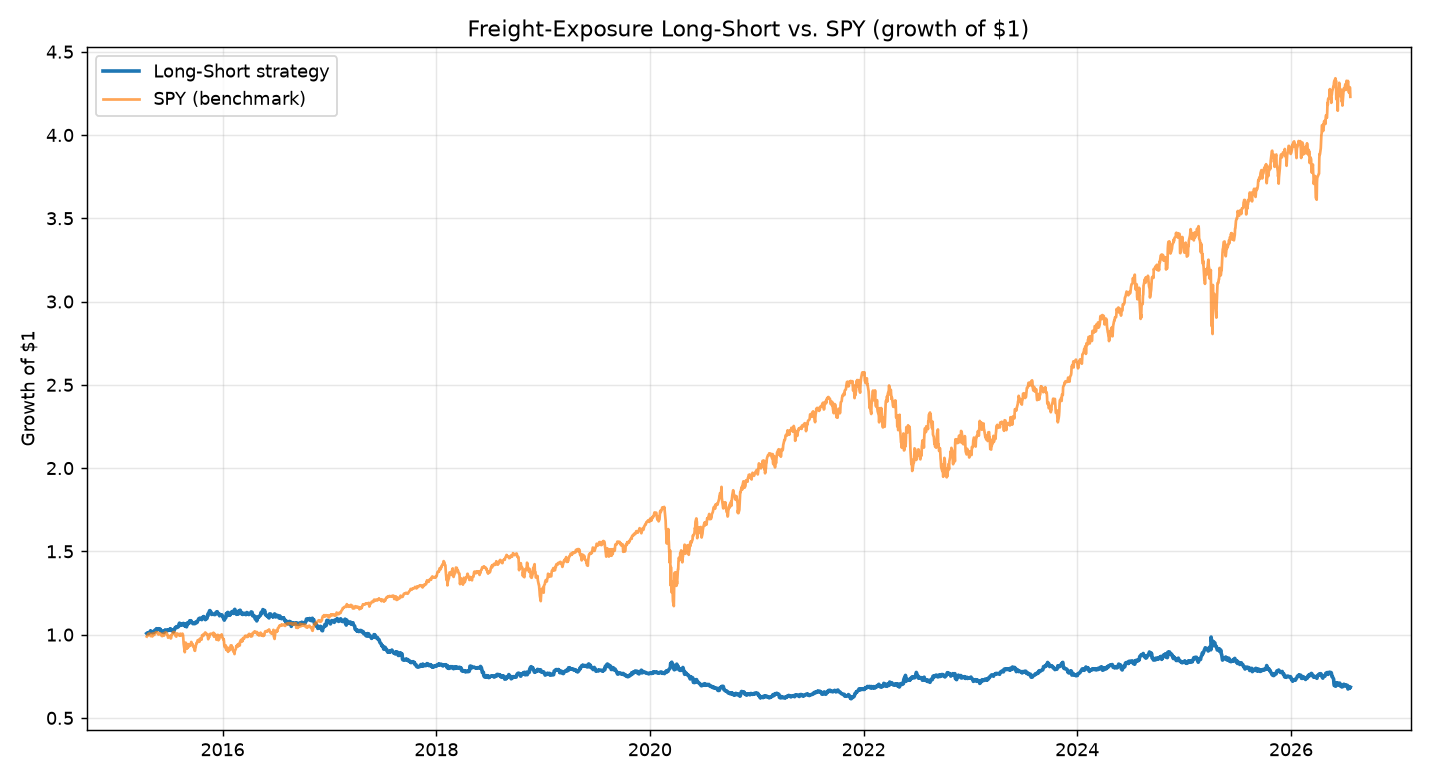
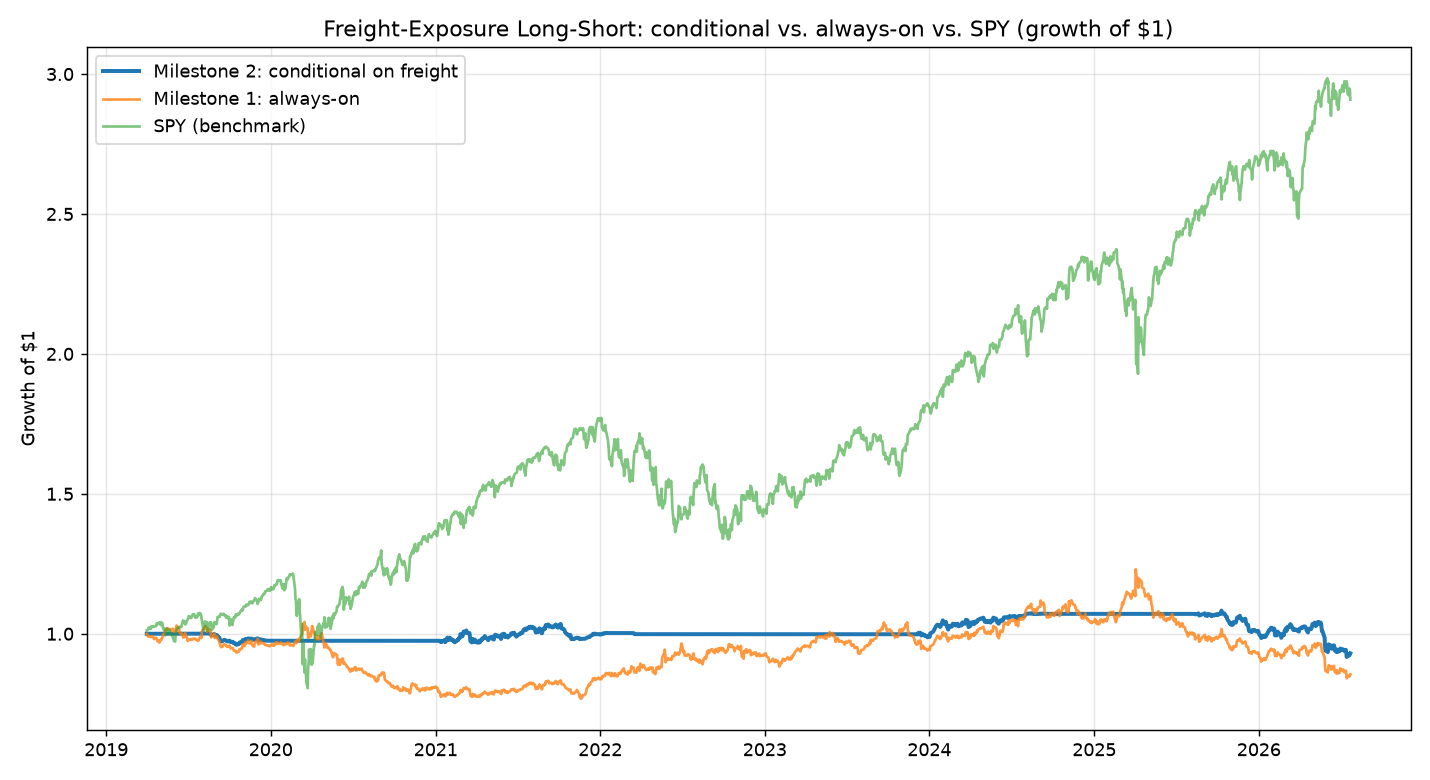
Milestone 2: conditional freight-driven signal
Add src/signal.py: turn the BDRY dry-bulk freight ETF into a daily signal
(rolling z-score vs trailing year, lagged to avoid look-ahead). Scale the
long-short book by that strength so it only leans against importers when
freight is actually elevated, and charge turnover-based transaction costs.

Result over 2019-2026: gating cuts vol ~60% and halves max drawdown vs the
always-on book, though edge is still unproven -- motivating the Milestone 3
validation layer.

diff --git a/main.py b/main.py
@@ -1,48 +1,78 @@
 """
-FIRST MILESTONE runner.
+Runner: builds the strategy end-to-end and compares milestones.
 
     python main.py
 
-What it does:
-  1. Downloads (and caches) prices for the stock universe + SPY.
-  2. Builds a market-neutral long-short book from the import-exposure thesis.
-  3. Backtests it and prints honest performance stats.
-  4. Saves a chart of the strategy vs. SPY to output/strategy_vs_spy.png.
+  Milestone 1  = always-on long-short book (bets against importers every day).
+  Milestone 2  = the SAME book, but only turned on when the freight signal says
+                 shipping costs are actually elevated (conditional + lagged).
 
-This is the skeleton. Everything else (dynamic freight signal, statistical
-validation, Streamlit dashboard) hangs off this.
+Both are compared against SPY over the window where freight data exists, so it's
+apples to apples. Saves a chart to output/strategy_vs_spy.png.
 """
 import os
 import matplotlib
-matplotlib.use("Agg")  # save to file, no GUI needed
+matplotlib.use("Agg")
 import matplotlib.pyplot as plt
 
 from src.ingest import download_prices
-from src.backtest import run_backtest, performance_stats
+from src.signal import freight_score
+from src.backtest import (
+    run_backtest, run_conditional_backtest, performance_stats,
+)
 
 OUTPUT_DIR = os.path.join(os.path.dirname(__file__), "output")
 
 
+def print_stats(label, returns):
+    stats = performance_stats(returns)
+    print(f"\n{label}")
+    for k, v in stats.items():
+        print(f"  {k:15s}: {v}")
+
+
 def main():
     prices = download_prices()
-    results, weights = run_backtest(prices)
 
-    print("\n--- LONG-SHORT WEIGHTS (positive = long, negative = short) ---")
-    print(weights.sort_values().round(3).to_string())
+    # --- freight signal ---
+    strength = freight_score(prices)
 
-    print("\n--- PERFORMANCE (net of a simple cost assumption) ---")
-    for name in ["strategy", "benchmark"]:
-        stats = performance_stats(results[name])
-        print(f"\n{name.upper()}")
-        for k, v in stats.items():
-            print(f"  {k:15s}: {v}")
+    # only compare over the window where the freight signal is actually defined
+    # (BDRY history + rolling lookback + lag), so nothing gets a free head start
+    valid = strength.dropna()
+    start = valid.index.min()
+    prices_w = prices.loc[start:]
+    print(f"Freight signal available from {start.date()} -> comparing from there.")
 
-    # cumulative return chart
-    curve = (1 + results).cumprod()
+    # --- Milestone 1: always-on book ---
+    m1, _ = run_backtest(prices_w)
+
+    # --- Milestone 2: conditional book ---
+    m2, weights, strength_w = run_conditional_backtest(prices_w, strength)
+
+    # align all three series to a common window
+    idx = m2.index.intersection(m1.index)
+    m1, m2 = m1.loc[idx], m2.loc[idx]
+
+    print("\n================ PERFORMANCE (net of costs) ================")
+    print_stats("SPY (benchmark)", m2["benchmark"])
+    print_stats("Milestone 1  (always-on)", m1["strategy"])
+    print_stats("Milestone 2  (conditional on freight)", m2["strategy"])
+
+    days_on = (strength_w.loc[idx] > 0.05).mean()
+    print(f"\nMilestone 2 was meaningfully 'on' {days_on:.0%} of days "
+          f"(flat the rest -> that's the point).")
+
+    # --- chart ---
+    curve_m1 = (1 + m1["strategy"]).cumprod()
+    curve_m2 = (1 + m2["strategy"]).cumprod()
+    curve_spy = (1 + m2["benchmark"]).cumprod()
+
     plt.figure(figsize=(11, 6))
-    plt.plot(curve.index, curve["strategy"], label="Long-Short strategy", linewidth=2)
-    plt.plot(curve.index, curve["benchmark"], label="SPY (benchmark)", linewidth=1.5, alpha=0.7)
-    plt.title("Freight-Exposure Long-Short vs. SPY (growth of $1)")
+    plt.plot(curve_m2.index, curve_m2, label="Milestone 2: conditional on freight", linewidth=2.2)
+    plt.plot(curve_m1.index, curve_m1, label="Milestone 1: always-on", linewidth=1.5, alpha=0.8)
+    plt.plot(curve_spy.index, curve_spy, label="SPY (benchmark)", linewidth=1.5, alpha=0.6)
+    plt.title("Freight-Exposure Long-Short: conditional vs. always-on vs. SPY (growth of $1)")
     plt.ylabel("Growth of $1")
     plt.legend()
     plt.grid(alpha=0.3)

diff --git a/src/signal.py b/src/signal.py
@@ -1,0 +1,50 @@
+"""
+Milestone 2: the CONDITIONAL freight signal.
+
+Milestone 1's book was always-on -- it bet against importers every single day,
+even when freight was cheap. That's why it fought the market and lost.
+
+The thesis only applies WHEN FREIGHT IS ELEVATED. So here we turn the freight
+proxy (BDRY) into a daily "how stressed is freight right now?" score, and later
+use it to scale the long-short book up (freight spiking) or down to flat
+(freight normal).
+
+Two things that keep this honest / interview-defensible:
+  1. Z-SCORE vs a trailing window -- "elevated" means high relative to its own
+     recent history, not an absolute level.
+  2. A LAG -- we only act on freight information from `lag_days` ago, so we never
+     trade on data we couldn't actually have seen in real time (no look-ahead).
+"""
+import numpy as np
+import pandas as pd
+
+from .universe import FREIGHT_TICKER
+
+
+def freight_score(prices, lookback=252, lag_days=5, cap=2.0):
+    """
+    Return a daily signal strength in [0, 1] from the freight proxy.
+
+    lookback : trailing window (~1 year) for the rolling mean/std of the z-score.
+    lag_days : trading-day delay before we act on freight info (no look-ahead,
+               plus reflects that margin effects show up with a lag).
+    cap      : z-score at which the signal is considered "fully on" (z >= cap
+               -> strength 1.0). Only POSITIVE z (freight above normal) turns the
+               book on; when freight is normal/cheap the strength is ~0 (flat).
+
+    Returns a pd.Series aligned to the price index.
+    """
+    freight = prices[FREIGHT_TICKER].dropna()
+
+    # rolling z-score: how unusual is today's freight cost vs the last year?
+    roll_mean = freight.rolling(lookback).mean()
+    roll_std = freight.rolling(lookback).std()
+    z = (freight - roll_mean) / roll_std
+
+    # only act on ELEVATED freight; scale 0 -> 1 up to the cap
+    strength = z.clip(lower=0, upper=cap) / cap
+
+    # LAG: shift forward so today's position uses freight info from lag_days ago
+    strength = strength.shift(lag_days)
+
+    return strength.reindex(prices.index)

diff --git a/src/backtest.py b/src/backtest.py
@@ -54,6 +54,42 @@ def run_backtest(prices, cost_per_turnover=0.0005):
     return out, weights
 
 
+def run_conditional_backtest(prices, strength, cost_per_turnover=0.0005):
+    """
+    Milestone 2: the SAME long-short book, but scaled each day by the freight
+    signal strength (0 = flat, 1 = full book). We only lean against importers
+    when freight is actually elevated.
+
+    Because the book now changes size day to day, we charge transaction costs on
+    the DAILY TURNOVER (how much the position changed), which is the honest way
+    to cost a dynamic strategy.
+    """
+    base = build_weights()
+    tickers = base.index.tolist()
+
+    rets = prices[tickers].pct_change()
+
+    # daily weights = base book * that day's freight strength (0..1)
+    strength = strength.reindex(prices.index).fillna(0.0).clip(0, 1)
+    weights = pd.DataFrame(
+        np.outer(strength.values, base.values),
+        index=prices.index, columns=tickers,
+    )
+
+    # gross return before costs: yesterday's weights earn today's returns
+    gross = (weights.shift(1) * rets).sum(axis=1)
+
+    # turnover = sum of |change in weight|; cost is proportional to it
+    turnover = weights.diff().abs().sum(axis=1).fillna(0.0)
+    costs = turnover * cost_per_turnover
+
+    net = (gross - costs).dropna()
+
+    bench = prices[BENCHMARK].pct_change().reindex(net.index).fillna(0)
+    out = pd.DataFrame({"strategy": net, "benchmark": bench})
+    return out, weights, strength
+
+
 def performance_stats(returns, periods_per_year=252):
     """Sharpe, annualised return/vol, max drawdown, hit rate. Be honest."""
     ann_ret = returns.mean() * periods_per_year

diff --git a/src/ingest.py b/src/ingest.py
@@ -6,7 +6,7 @@ import os
 import pandas as pd
 import yfinance as yf
 
-from .universe import UNIVERSE, BENCHMARK, START_DATE, END_DATE
+from .universe import UNIVERSE, BENCHMARK, FREIGHT_TICKER, START_DATE, END_DATE
 
 DATA_DIR = os.path.join(os.path.dirname(__file__), "..", "data")
 CACHE = os.path.join(DATA_DIR, "prices.csv")
@@ -18,7 +18,7 @@ def download_prices(force=False):
         print(f"Loading cached prices from {CACHE}")
         return pd.read_csv(CACHE, index_col=0, parse_dates=True)
 
-    tickers = list(UNIVERSE.keys()) + [BENCHMARK]
+    tickers = list(UNIVERSE.keys()) + [BENCHMARK, FREIGHT_TICKER]
     print(f"Downloading {len(tickers)} tickers from yfinance...")
     raw = yf.download(
         tickers,

diff --git a/src/universe.py b/src/universe.py
@@ -46,6 +46,12 @@ UNIVERSE = {
 
 BENCHMARK = "SPY"  # what we compare our long-short strategy against
 
+# Freight-cost proxy. BDRY tracks dry-bulk freight FUTURES (the Baltic complex),
+# so it moves with the actual cost of shipping goods -- a defensible, free, daily
+# stand-in for a freight index. Note: BDRY only launched in 2018, which honestly
+# bounds how far back the conditional (Milestone 2) backtest can run.
+FREIGHT_TICKER = "BDRY"
+
 # How far back to pull data
 START_DATE = "2015-01-01"
 END_DATE = None  # None = up to today

diff --git a/README.md b/README.md
@@ -24,31 +24,43 @@ python main.py
 This downloads prices, builds the long-short book, prints performance stats, and
 saves `output/strategy_vs_spy.png`.
 
-## Milestone 1 result (and why the "loss" is the point)
-![strategy vs SPY](output/strategy_vs_spy.png)
+## Results so far
+![conditional vs always-on vs SPY](output/strategy_vs_spy.png)
 
-The first version is an **always-on** book: permanently short importers, long
-domestic names. Backtested 2015–2026 it *underperforms* SPY (Sharpe ≈ **-0.25**
-vs SPY's 0.81). That's expected and instructive: freight costs weren't elevated
-most of that window, so the book spent years structurally short high-growth
-retailers straight through a bull market — fighting the market, not trading the
-signal.
+**Milestone 1 — always-on book.** Permanently short importers, long domestic
+names, every day. It *underperforms*: freight wasn't elevated most of the window,
+so the book spent years structurally short high-growth retailers through a bull
+market — fighting the market, not trading the signal. Sharpe ≈ **-0.12**.
 
-The fix (Milestone 2) is to make the signal **conditional**: only lean short-
-importer *when freight is actually spiking*, and sit flat otherwise. Reporting
-the honest v1 result and the flaw it exposes is deliberate — it reflects how real
-signal research actually proceeds.
+**Milestone 2 — conditional on freight.** The *same* book, but only turned on
+when the freight proxy ([BDRY](https://www.breakwaveadvisors.com/), dry-bulk
+freight futures) is elevated versus its own trailing year, acted on with a lag so
+there's no look-ahead. The strategy sits flat ~58% of days and only leans against
+importers when freight is actually stressed.
+
+| Strategy (2019–2026, net of costs) | Ann. vol | Max drawdown | Sharpe |
+|---|---|---|---|
+| Milestone 1 (always-on) | 0.12 | -0.32 | -0.12 |
+| **Milestone 2 (conditional)** | **0.05** | **-0.15** | -0.18 |
+
+The gating **cut volatility ~60% and halved the drawdown** — a much healthier
+risk profile — but the strategy is still *not* reliably profitable. That is the
+honest state of it: conditioning fixed the risk, but whether the freight signal
+has real predictive *edge* is a separate question. Answering it rigorously
+(information coefficient, Granger causality, out-of-sample) is **Milestone 3** —
+and a finding of "no edge" would be a legitimate, defensible result too.
 
 ## Layout
 - `src/universe.py` — the stock list, the thesis, and per-stock import-exposure scores
 - `src/ingest.py` — pull + cache price data (yfinance)
-- `src/backtest.py` — build long-short weights, backtest, performance stats
-- `main.py` — runs the whole first milestone end-to-end
+- `src/signal.py` — turn the freight proxy into a lagged, conditional signal
+- `src/backtest.py` — long-short weights, always-on + conditional backtests, stats
+- `main.py` — runs the full milestone comparison end-to-end
 
 ## Roadmap
-1. **Milestone 1 (this):** static thesis book vs. SPY, one chart. ✅
-2. **Milestone 2:** dynamic signal — drive weights off a live freight series
-   (Cass Freight Index / Freightos Baltic Index). Add lag handling.
+1. **Milestone 1:** static thesis book vs. SPY, one chart. ✅
+2. **Milestone 2:** dynamic signal — drive the book off a freight proxy (BDRY),
+   with rolling z-score, lag handling, and turnover-based costs. ✅
 3. **Milestone 3:** validation layer — Granger causality, information
    coefficient, train/test out-of-sample split, multiple-testing correction.
 4. **Milestone 4:** Streamlit dashboard + a one-page written thesis.
